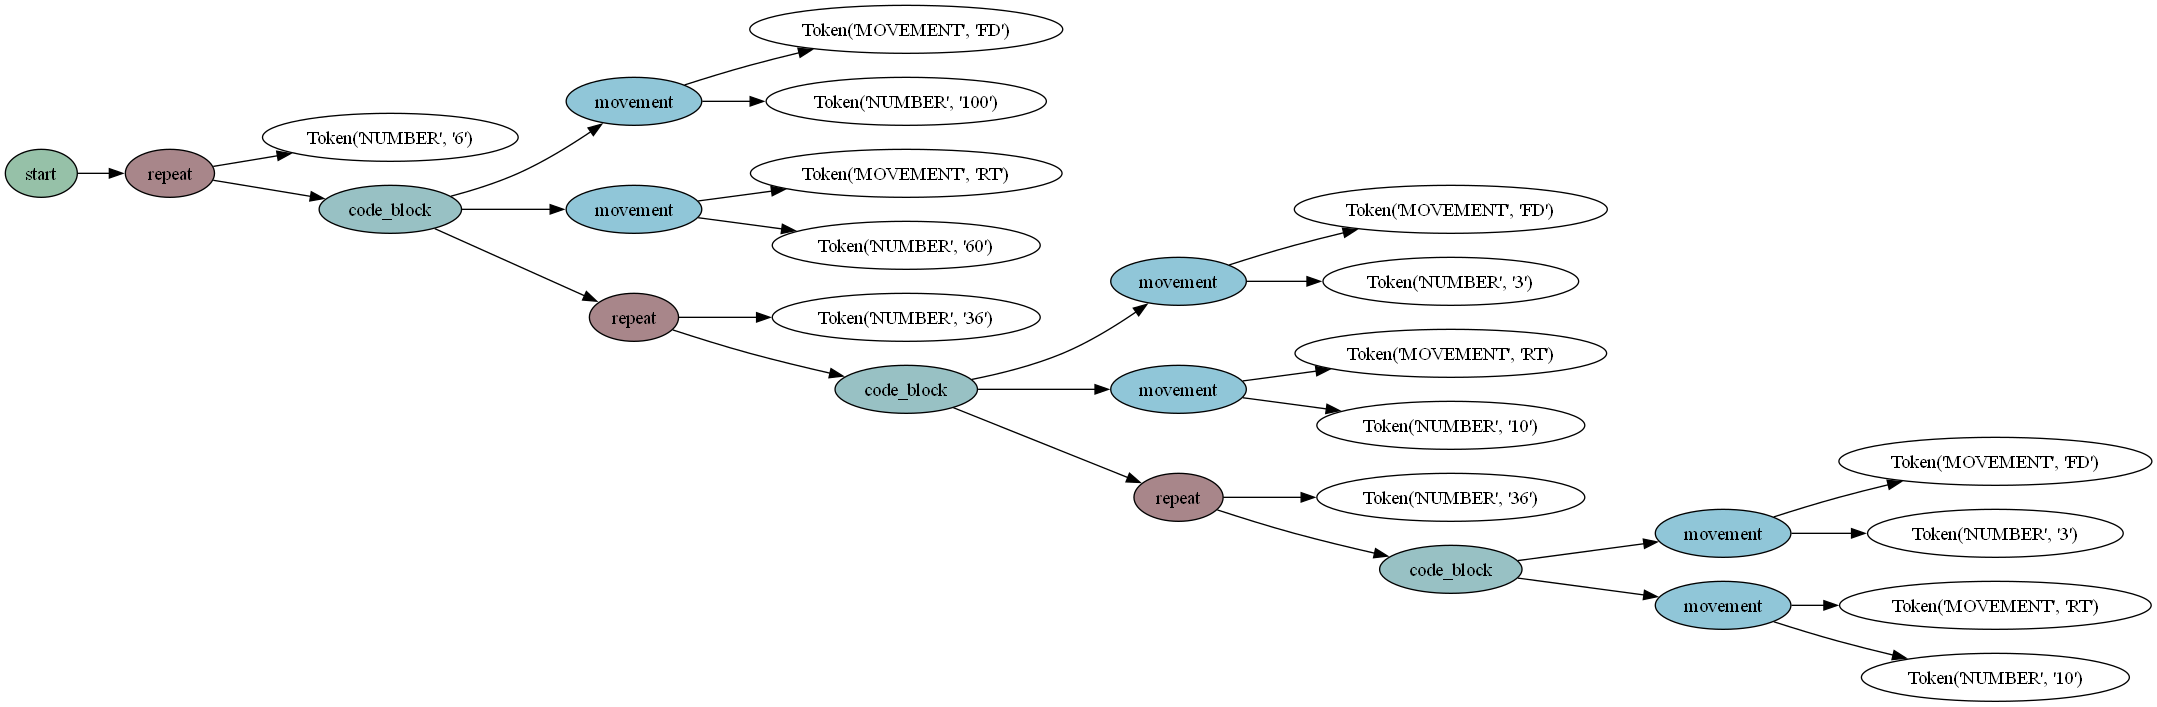
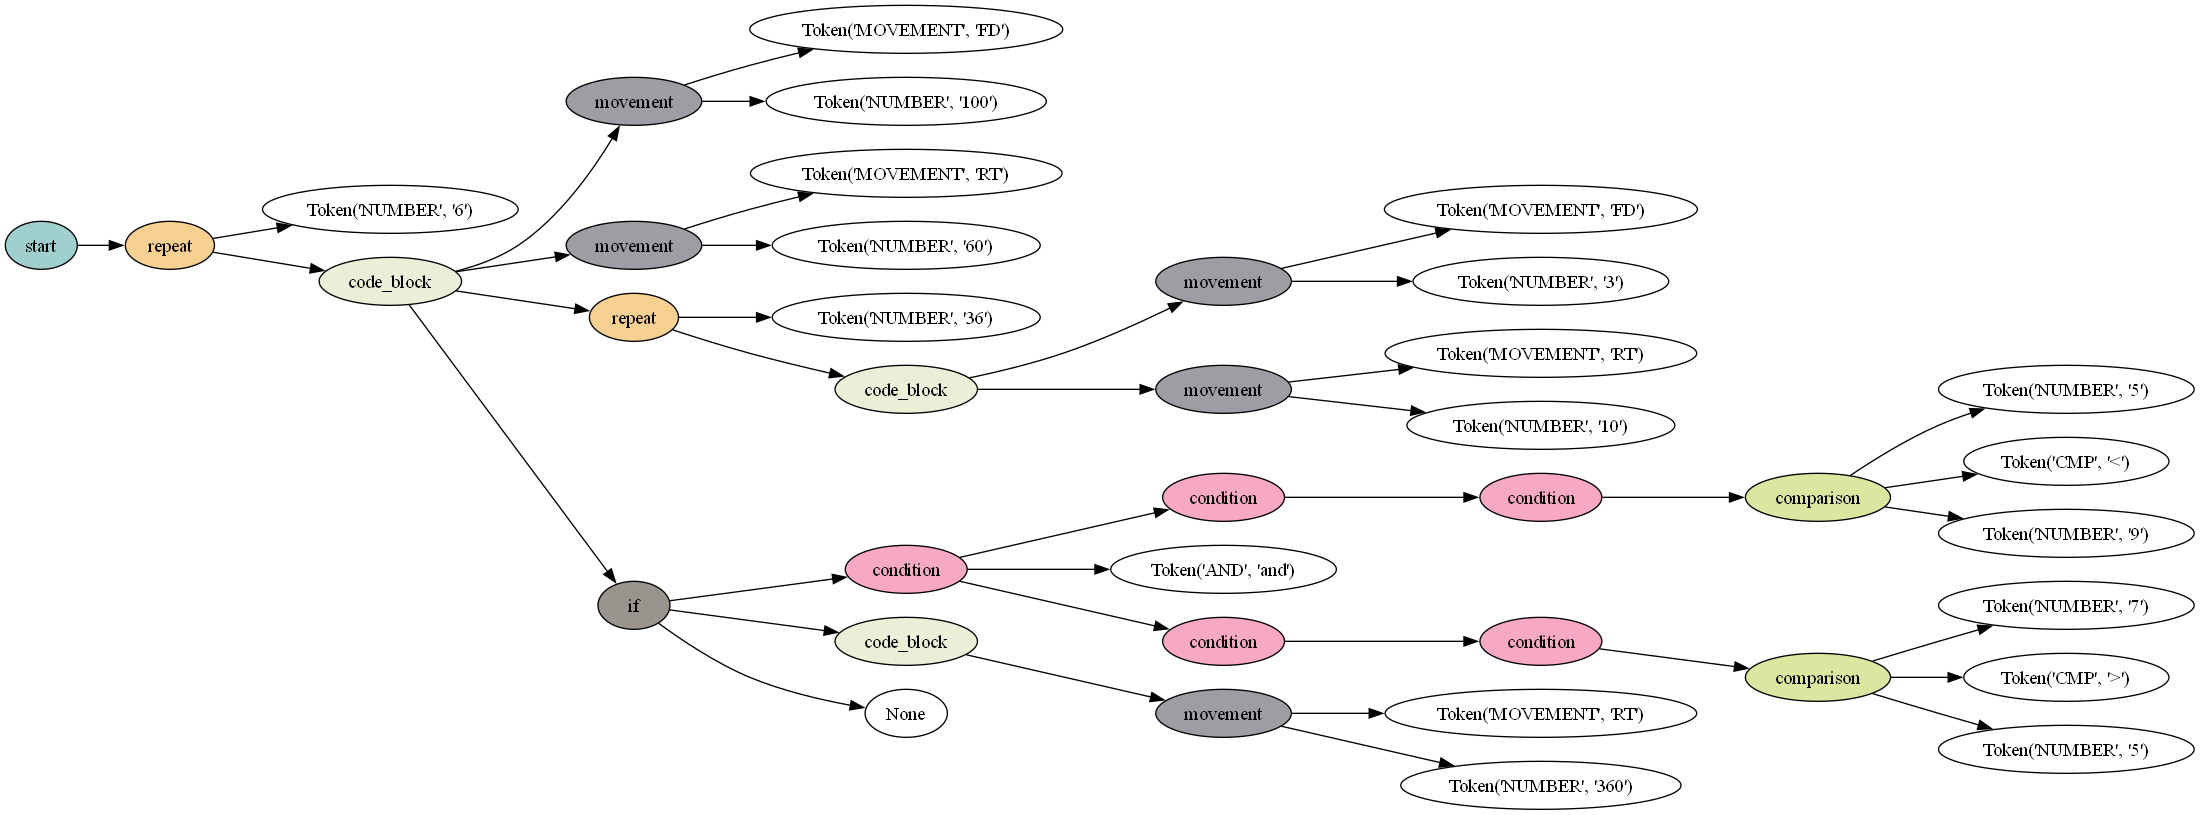
indentacion arreglada

Changed region(s): [[0.0, 0.0, 1.0, 0.9958], [0.4659, 0.8091, 0.497, 0.8402]]

diff --git a/program.hlogo.py b/program.hlogo.py
@@ -1,12 +1,11 @@
 import turtle
 t = turtle.Turtle()
- for i in range(6):
-     t.forward(100)
-     t.right(60)
-     for i in range(36):
-         t.forward(3)
-         t.right(10)
-         for i in range(36):
-             t.forward(3)
-             t.right(10)
+for i in range(6):
+   t.forward(100)
+   t.right(60)
+   for i in range(36):
+       t.forward(3)
+       t.right(10)
+   if ((5<9)and(7>5)):
+       t.right(360)
 turtle.mainloop() 

diff --git a/hlogoc.py b/hlogoc.py
@@ -238,8 +238,8 @@ def translate_condition(ast, out):
 
 # This function will traverse the AST and you can use it to emit the
 # code you want at every node of it.
-def translate_program(ast, out, indent_level=0):
-    
+def translate_program(ast, out, indent_level=-1):
+
     indent = ' ' * (indent_level)  # 4 spaces per indentation level
     
     if ast.data == "start":
